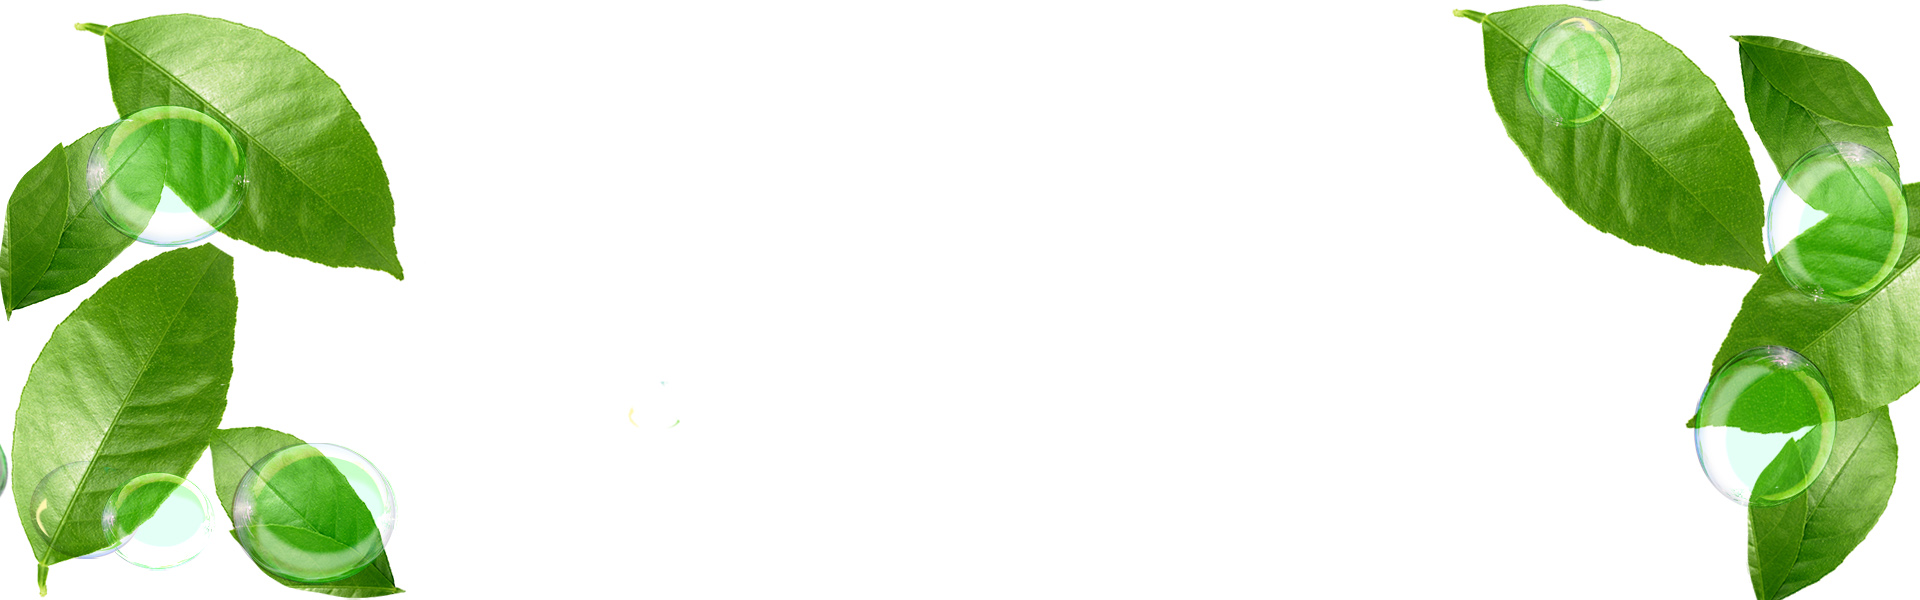
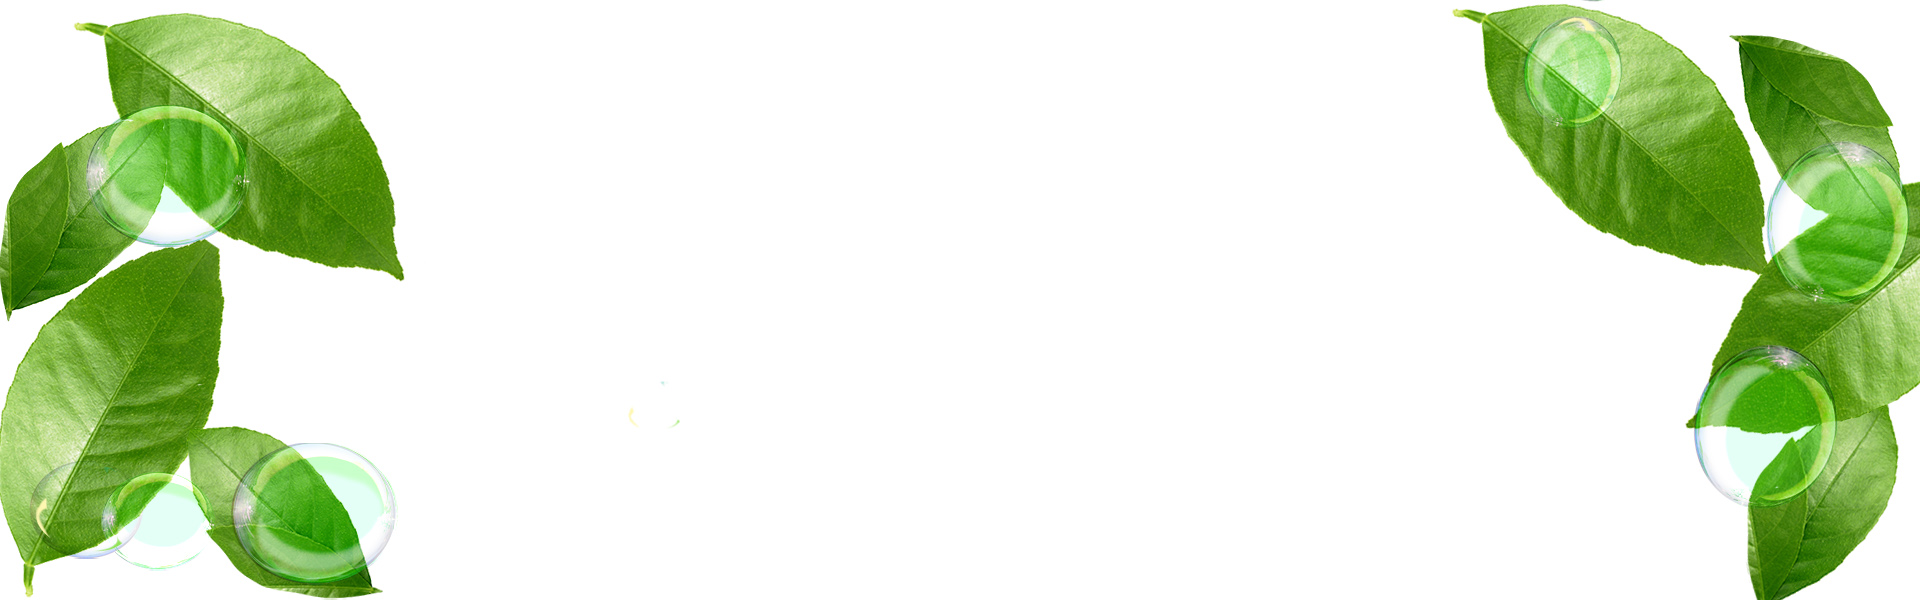
asdasdasd

Changed region(s): [[0.0, 0.39, 0.2188, 1.0]]

diff --git a/index.html b/index.html
@@ -151,7 +151,7 @@
                             </div>
                         </div>
 
-                        <div class="section mcb-section" style="padding-top:10px; padding-bottom:0px; background-image: url(imagenes/fondo-funciona.jpg); background-repeat: no-repeat;width: 100%;">
+                        <div class="section mcb-section" style="padding-top:10px; padding-bottom:0px; background-image: url(imagenes/fondo-funciona.jpg); background-repeat: no-repeat;background-size:100% 100%;">
                             <div class="section_wrapper mcb-section-inner">
                                 <div class="wrap mcb-wrap one-second valign-top clearfix">
                                     <div class="mcb-wrap-inner">
